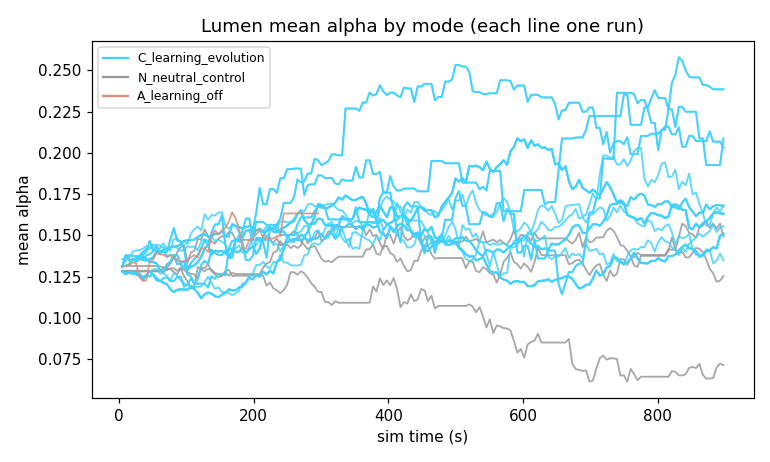
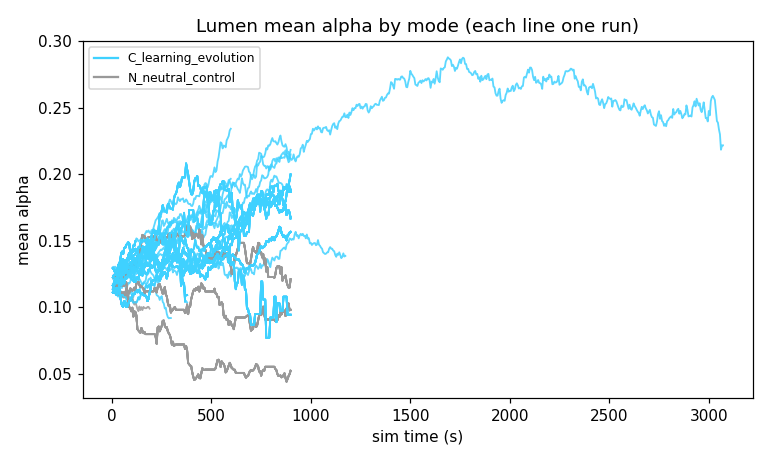
CHECKLIST + PROGRESS: designer fixed, and all six victory conditions met
Twenty meetings queued ten distinct protocols; 64 runs executed in ~15 min.
X-017 (mode C vs mode A, q_drift 1.6288 vs 0.0000, pass) closes OQ-VC-3, so the
spec's six victory conditions now all read met. X-013 shows Tecton engineering
net-helps Lumen (121.7 vs 112.3). X-012 and X-019 both came back opposite:
drought and predation each select for LOWER epsilon, refuting H-005 and H-022.
X-015 shows the stable band holds down to regen 4 at 1800 s across five seeds.
H-014 was demoted supported -> conjecture by its own new experiment. 70
preregistered predictions scored, 26 right, mean Brier 0.719.

Also records the two lost recording takes and what fixed them, and the known
flaw in X-020's metric choice.

diff --git a/PROGRESS.md b/PROGRESS.md
@@ -50,3 +50,5 @@ the prep session are marked (manual).
 - 2026-09-15 lumen-tecton branch verified for push (75e4e90..986c97e) + build-partition fix committed (27941a8) — PASS (session worktree fast-forwarded to 986c97e, clean full build 221 s; seed 7 C 300 s, seed 7 C 120 s pair and seed 1 C 600 s byte-identical to the goofy-aryabhata references 20260914-114829 / 115741 / 115748 (run_id stripped), so the five commits leave the no-policy path unchanged; the older lumen-tecton references (seed 7 300 s, 22422 agent rows) came from a working-set build of the unfixed source; predator-on seed 7 C 120 s pair byte-identical (Lumen 5, Tecton 7 taken); seeds 1-3 C 600 s no extinction (Lumen end 85/123/120, min 40; Tecton end 13/30/51, min 6); Lab tests 16/16; renders seed 1 C 45 s --windowed --offscreen: authored SK_Lumen / SK_Tecton (3 LODs) and the Leviathan (SW_20260915-124145_*_t0004/t0040; t0004 still shows shader warm-up in a fresh worktree), field team via Lab.lab observe --embody on 127.0.0.1:9000 with Look.bScientistAvatars=1 and -SWFollowScientist=any: 8/8 joined as mannequins, 0 bridge timeouts, Vesper crossing by jet ski (SW_20260915-125233_*_t0012/t0040). With the SpawnPatches fix: 4/4 reference runs byte-identical with SWWorldManager.cpp excluded from the unity blob, and again after Tools/build.bat -DisableAdaptiveUnity (a plain rebuild after the commit compiled nothing: UBT keeps a formerly modified file outside the blob until the blob is rebuilt). Cosmetic, not fixed: with a policy server connected the title card's "ext N" suffix runs into the GENERATION card subtitle) — files: Source/SymbioticWorld/SWWorldManager.cpp, DESIGN.md, docs/CONTRIBUTING.md, PROGRESS.md
 - 2026-09-17 WKrohg's fork branch discourse-trajectory merged (8 commits: OpenRouter backend with per-scientist `model:`, Humboldt the PI with an agenda round and veto arbitration, Fisher revise-and-resubmit, `python -m Lab.lab loop`, dashboard collect/pause/reset/save/load, LAB_TURN_PACE) — PASS (only .gitignore conflicted, resolved keeping both `Content/Characters/Mannequins/` and `Lab/saves/`; pytest 25 passed, `python Lab/tests/test_smoke.py` and `test_openrouter.py` pass) — the smoke test needed a fix first: it asserts experiments park as awaiting-sim, true only without UE 5.7, so on this sim host it executed five experiments for real and wrote their runs into the repo's Saved/ whatever LAB_SAVED said; it now points LAB_SIM_SERVICE at a dead port — files: Lab/*, .gitignore, Lab/tests/test_smoke.py
 - 2026-09-17 Recorded demo takes + Lab duty cycle + policy back-off — PASS (control file gains `at=<sim_time> <command>` — 17 beats fired within 0.1 s of their scheduled sim time, pending list cleared on reset — plus `cam=x,y,z,pitch,yaw`, `follow=<target>`, `caption=<text>` (Look.CaptionSeconds 6, drawn even when Look.bShowHUD=0), Look.bShowLabPanel off by default, `run_sim.py --res WxH` and `--no-console`, `Tools/demo_captions.py` turning commands.csv into an .srt; predation reads on camera now — plume sized to the animal, stand-in body falling 1.5x its own measured height and clamped to the riverbed, kill feed under the LEVIATHAN card, minimap mark, all gated by Look.bPredationEffects; Lab/duty.py splits fieldwork (LAB_FIELD_WINDOWS windows) from a meeting at a camp on land (-4400,3410) where Humboldt the PI always stands, witnessed evidence minted only in the field and instrument windows in both, `loop` waiting on the phase; Lab concurrency fixed after a take froze the world — WAL, each meeting turn committed as spoken, observer writes skippable on a 250 ms busy wait, evidence flush retried across a meeting's gaps: worst observer block 5413 ms -> 349 ms and 36/47 turns visible mid-meeting instead of none; policy back-off (Settings.PolicyTimeoutBackoffAfter 3, PolicyBackoffStartSec 1.0, PolicyBackoffMaxSec 10.0) took a wedged server from 1263 s of wall clock per 5 sim-seconds to 9.4 s per 120 sim-seconds, CSVs identical to an unreachable port; determinism unchanged — seed 7 C 120 s 7735/65/43/47 and predator-on seed 4 7543/75/49/47, both 0 differing lines; tests pytest 25 passed plus test_embodiment, test_smoke and test_openrouter; takes captured with ffmpeg gdigrab + h264_nvenc at 1998x1498, final cut 3m59s on seed 4 — 1x for the predator and inspector beats, 50x to sim 2900 reaching generation 48 with Lumen inherited alpha 0.13 -> 0.25, then 1x for the drought) — known cosmetic gaps: the title card's "ext N" suffix overlaps the GENERATION card, and scientist name tags pile up at camp — files: Source/SymbioticWorld/SWKillMark.*, SWPolicyClient.*, SWWorldManager.*, SWHUD.*, SWTypes.h, SWScientistAvatar.cpp, Lab/duty.py, Lab/db.py, Lab/live_observer.py, Lab/embodiment.py, Lab/lab.py, Lab/ui_server.py, Lab/ui/index.html, Tools/run_sim.py, Tools/control.py, Tools/demo_captions.py, docs/CONTROL_FILE.md, docs/POLICY_API.md
+- 2026-09-17 Experiment designer — PASS — audit of the 10 executed experiments found 3 distinct designs and 6 re-runs of one failed drought contrast (X-005..X-010, identical -0.009267 each time). Four causes, all fixed: (1) Lab/llm.py `_protocol` was a 3-branch keyword router and every challenge claim contains "drought", so mode A and the predator / MutationSigma / WeightNovelty knobs were unreachable -> replaced with a 12-row design bench (arms, preregistered metric, direction, threshold per row; 20 claims now map to 12 distinct designs, was 3); (2) victory.sync_questions rewrites a question's text every meeting, so the same unmet condition minted a fresh card each time (H-015..H-020) -> card identity is now the condition text with the [status] tag and parenthetical tail stripped (balanced-bracket scan: the tail contains "experiment(s)"), and those six cards were retired as superseded; (3) the design slot took the NEWEST card while the stance round only sees the 4 newest (MAX_ACTIVE_CARDS_PER_MEETING), so the seeded H-005..H-007 starved for 17 meetings -> least-tested-card-first, max 2 experiments per card; (4) no protocol-level dedupe -> an identical arms+metric+seeds+duration draft is filed as `duplicate` naming the original (10 filed this session, 0 sim time). Plus 4 seeded conjectures for mechanisms that landed after the seed list (predation floor, predation vs epsilon, novelty bonus, inheritance fidelity) and mode A + the real knob names in the DESIGN prompt. 20 meetings queued 10 distinct protocols; 64 runs executed in ~15 min: X-017 C vs mode A q_drift 1.6288 vs 0.0000 (pass) closes OQ-VC-3 so ALL SIX victory conditions now read met; X-013 wI=0.10 vs 0 lumen_end_n 121.7 vs 112.3 (pass, H-006 supported); X-014 env_effect 0.5502 vs 0.4767 under drought (pass, H-007 supported); X-012 epsilon 0.2211 vs 0.2673 and X-019 0.2369 vs 0.2673 (both opposite -> H-005, H-022 refuted: drought AND predation select for LOWER exploration); X-015 regen-4 vs 6 at 1800 s x 5 seeds min_n 35.0 vs 35.8 (no_difference — the stable band holds down to regen 4); X-018 predation floor 38 vs 40, X-011 MutationSigma 0.06 corr 0.8919 vs 0.9217, X-030 greedy_changed 58.178 vs 57.666 (all no_difference; H-014 honestly demoted supported -> conjecture). 70 preregistered predictions scored, 26 right (37%), mean Brier 0.719 (Ada 0.567 best, Mendel 0.885 worst). KNOWN FLAW: X-020's bench row preregistered lumen_min_n for the novelty claim and both arms returned exactly 40.0 — min_n is the early-run trough, reached before wN can matter; that row needs a late-run metric and a re-run. Files: Lab/llm.py, Lab/meeting.py, Lab/seed_content.py, Lab/ui/index.html (duplicate/superseded pills), CHECKLIST.md
+- 2026-09-17 Lab clip take 3 — PASS — SymbioticWorld_lab_clip_20260917-164825.mp4 (2400x1600, 284 s, 37.7 MB): World with the sim streaming inside the dashboard and the duty card reading "in the field, 2 of 2 windows left", Conversation with meeting 40 forming live (39 -> 40 in the header), Experiments showing X-030's protocol, measured arms and 7 Brier-scored predictions plus X-029's DUPLICATE pill, Registry, Data. Two takes were lost first: a shared Chrome profile restored the previous take's tabs (the World segment drifted to Conversation at ~50 s), and then the desktop capture recorded the Claude app because a kiosk window that is pinned but not raised still sits behind it — Windows denies SetForegroundWindow to a non-foreground process, so pin_chrome.ps1 now drops SPI_SETFOREGROUNDLOCKTIMEOUT, attaches the foreground thread's input queue, taps Alt, raises and pins HWND_TOPMOST, and the script refuses to record unless it reads back foreground=chrome. Every take now ends by stacking each segment's nav bar at 10/50/90% into one strip image for verification. Files: Tools/ unchanged; scratchpad lab_clip4.sh, pin_chrome.ps1

diff --git a/CHECKLIST.md b/CHECKLIST.md
@@ -74,6 +74,21 @@ Open work found in the 2026-09-15 status review, fork check and Lab test prep.
       evolution, Leviathan predation, the field team, drought. Exit: a shot-list control file drives one take with
       every beat, `commands.csv` shows each scheduled command at its preregistered sim time, a second take from the
       same seed + shot list lands the same rows, and the no-policy determinism pair stays byte-identical.
+- [x] **Experiment designer** (added 2026-09-17, from the 10-experiment audit): ten experiments held three
+      distinct designs and six were one drought contrast re-run, because `Lab/llm.py` `_protocol` was a
+      three-branch keyword router (every challenge claim contains "drought"), `victory.sync_questions` rewrites a
+      question's text every meeting so the same unmet condition minted a fresh card each time (H-015..H-020), the
+      design slot took the NEWEST card so the seeded conjectures H-005..H-007 starved, and a C-vs-C draft with
+      empty arms self-vetoed - which is why mode A, the predator, MutationSigma and WeightNovelty were
+      unreachable and OQ-VC-3's learning-off control could not be proposed. Fix: a design bench (one row per
+      runnable contrast: arms, preregistered metric, direction, threshold), card identity by condition rather
+      than wording, least-tested-card-first design slot with up to two experiments per card, a protocol
+      signature check that files a repeat as `duplicate` instead of running it, four seeded conjectures for the
+      mechanisms that landed after the seed list (predation floor, predation vs epsilon, novelty bonus,
+      inheritance fidelity), and mode A + the knob surface in the DESIGN prompt a real model sees.
+      Exit: a run of the docket queues >=8 distinct protocols, no two queued/done experiments share
+      arms+metric+seeds+duration, H-005..H-007 hold experiments, and the mode-A control answers OQ-VC-3.
+
 - [ ] HUD: with a policy server connected, the title card's "ext N" suffix runs into the GENERATION card subtitle.
 - [ ] Repo hygiene: local `main` still holds superseded creature/avatar drafts (discard, then fast-forward to
       `origin/main`); `goofy-aryabhata` holds a duplicate uncommitted SpawnPatches fix; `river-levers` /
